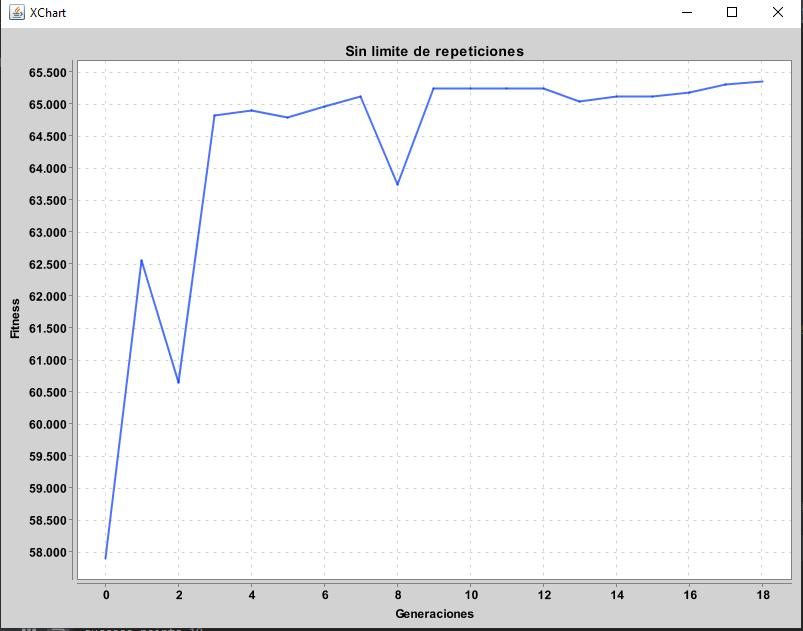
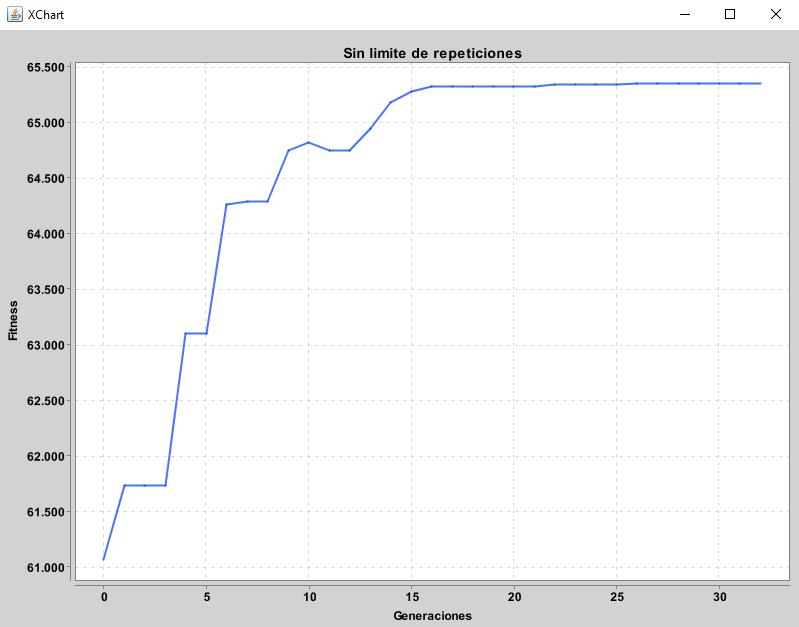
minor adjustments

diff --git a/src/assignment3/exercise/withoutRepetitionLimits.kt b/src/assignment3/exercise/withoutRepetitionLimits.kt
@@ -10,9 +10,9 @@ fun withoutRepetitionLimits() {
     // this section we'll be in spanish
     println("Encontrar número sin límite de repetición")
     // parametros del enunciado
-    val population = 600
+    val population = 200
     val depth = 15
-    val mutationRate = 0.2
+    val mutationRate = 0.3
     val functions: MutableList<(Node, Node) -> Int> = mutableListOf(
         addFun(),
         subFun(),
@@ -20,7 +20,7 @@ fun withoutRepetitionLimits() {
         maxFun()
     )
     val terminals: MutableList<Int> = mutableListOf(25, 7, 8, 100, 4, 2)
-    val generator = Ast(functions, terminals, terminalNodeProbability = 0.4)
+    val generator = Ast(functions, terminals, terminalNodeProbability = 0.3)
     // funcion de fitness
     fun noRepetitionFitness(a: Node) = 65346 - abs(65346 - a.eval())
 
@@ -35,11 +35,10 @@ fun withoutRepetitionLimits() {
     // do while .... feeling old ?
     do {
         fitnessList.add(forest.fittestFitness().toDouble())
-        gen++
+        print("\r generacion ${gen++} distancia: ${ abs(65346- forest.fittestFitness())}")
         forest.evolve()
-        when {gen % 100 == 0 -> println("generación $gen, distancia: ${65346 - forest.fittestFitness()} mejor: ${forest.getFittest()}") }
     } while (fitnessList.last().toInt() != 65346)
-    println("Encontrado número en la generación $gen")
+    println("\n Encontrado número en la generación $gen")
 
     // gráfico
     val plot = LinePlot("Sin limite de repeticiones", "Generaciones", "Fitness", "fitness")

diff --git a/src/assignment1/LinePlot.kt b/src/assignment1/LinePlot.kt
@@ -6,7 +6,7 @@ import org.knowm.xchart.style.markers.SeriesMarkers
  * Class to create the plot, used to show the results of training
  * @author Ignacio Slater Muñoz
  */
-class LinePlot(title: String, xLabel: String, yLabel: String, private val seriesName: String = "Success rate") {
+class LinePlot(val title: String, xLabel: String, yLabel: String, private val seriesName: String = "Success rate") {
     private val plot = XYChartBuilder()
         .width(800)
         .height(600)
@@ -33,8 +33,8 @@ class LinePlot(title: String, xLabel: String, yLabel: String, private val series
         if (xData == null) xData = DoubleArray(yData!!.size) { i -> i.toDouble()}
         assert(xData!!.size == yData!!.size)
         SwingWrapper(plot).displayChart()
-        print("success points ${yData!!.size}")
         val line = plot.addSeries(seriesName, xData, yData)
         line.marker = SeriesMarkers.NONE
+        print("showing $title")
     }
 }

diff --git a/src/assignment3/exercise/Analysis.kt b/src/assignment3/exercise/Analysis.kt
@@ -66,7 +66,7 @@ private fun minOf(an: Array2D<Long>): Triple<Int, Int, Long> {
 private fun reachFitness(forest: Forest): Long {
     println("Comenzando para size:${forest.size} y rate: ${forest.mutationRate}")
     val time = measureTimeMillis {
-        repeat(10) {
+        repeat(20) {
             // we are doing the minimum of 10 times for each config
             var gen = 0
             // do while .... feeling old ?

diff --git a/src/assignment3/main.kt b/src/assignment3/main.kt
@@ -22,7 +22,7 @@ fun main() {
     // You can use ctrl + B to jump to the exercise function
 
     // I do not know how to work when the best fitness is zero, so I'll work around that
-    ::analysis.invoke()
+    //::analysis.invoke()
     ::withoutRepetitionLimits.invoke()
 }
 

diff --git a/src/assignment3/README.md b/src/assignment3/README.md
@@ -32,3 +32,6 @@ La mejor combinación es (con profundidad 15):
 	 ratio de mutacion: 0.4 
 	 con un tiempo de 219
 ```
+
+Los arboles limitan su crecimiento por diseño, me di cuenta bastante despues de que
+el como lo hice solucionaba el problema planteado en uno de los ejercicios.
